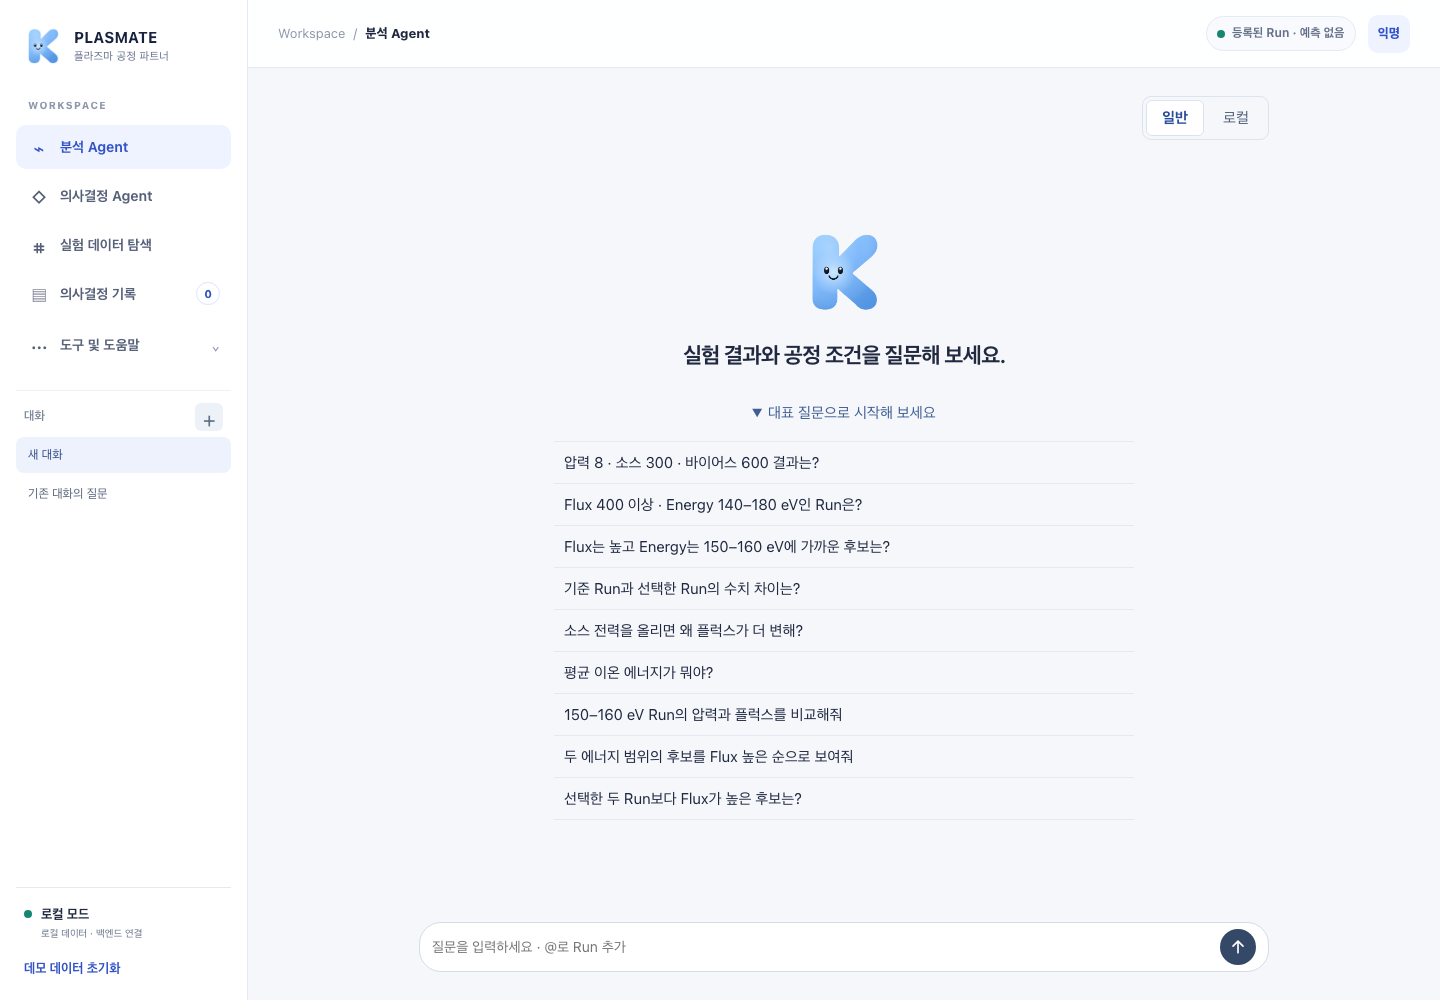
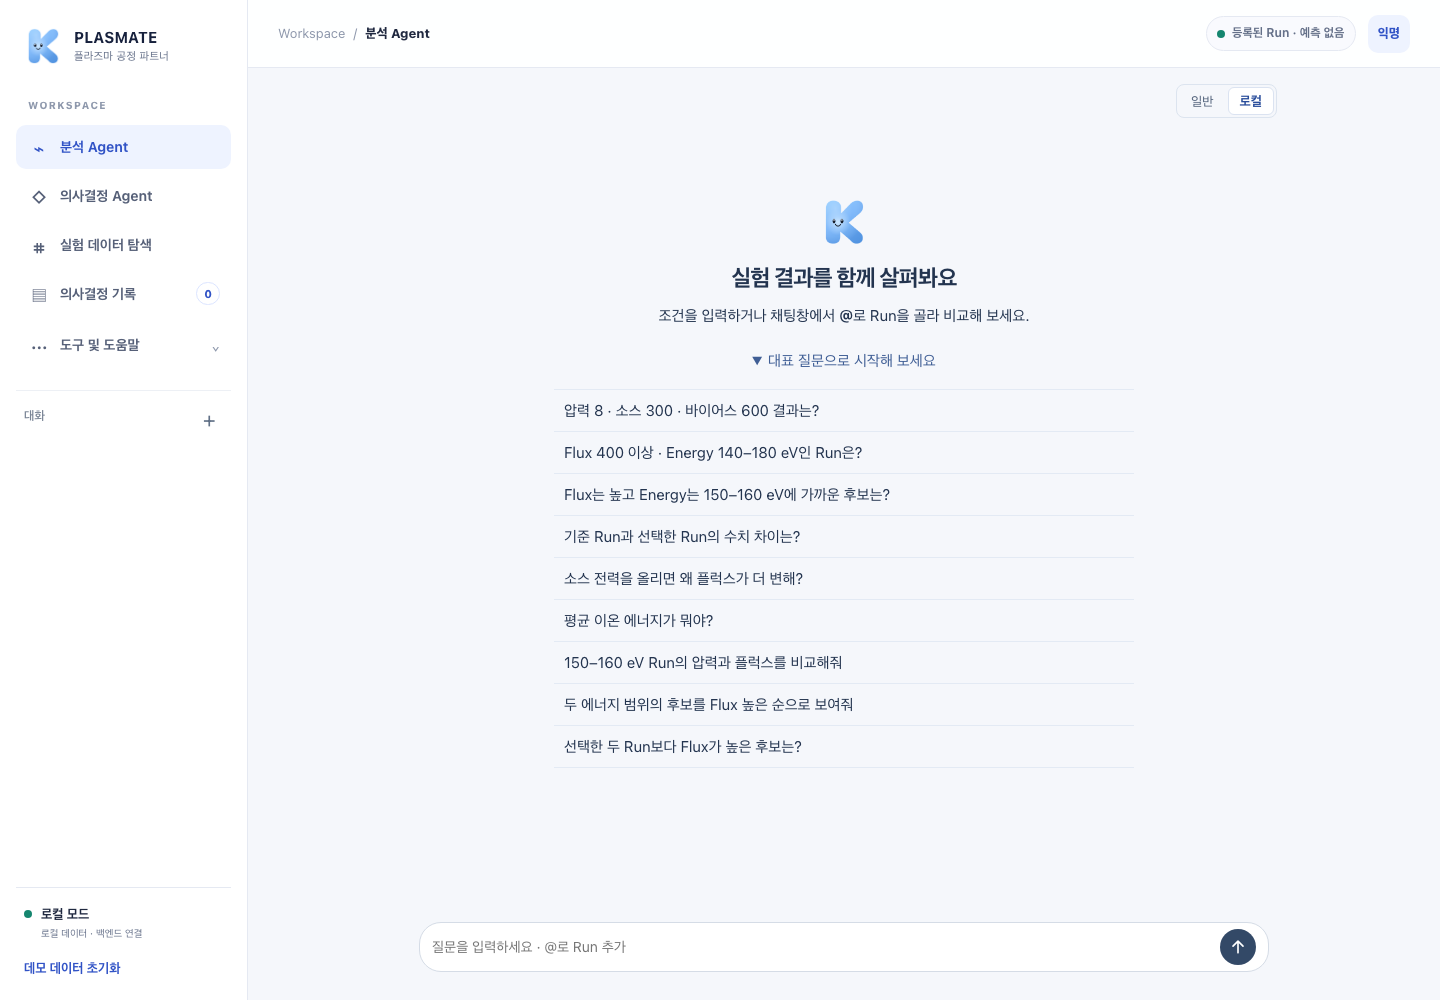
fix(frontend): 분석 Agent 탭과 시작 화면 배치 정리

diff --git a/frontend/src/features/agent/AgentPage.tsx b/frontend/src/features/agent/AgentPage.tsx
@@ -206,19 +206,20 @@ export function AgentPage({conversation,notify,onDetail,onRecord,onEvidence}:Age
  return <RunColorsProvider key={colorScope} scope={colorScope} enabled={conversation.ready}>
  <div className="agent-page agent-page--wide analysis-agent">
  <header className="agent-page-header analysis-agent-header">
+  {hasConversation&&<button className="button button--ghost button--small" type="button" data-action="new-conversation"
+   disabled={changingMode} onClick={()=>conversation.newConversation().catch(catchError)}>새 대화</button>}
   <div className="analysis-agent-modes" role="group" aria-label="분석 실행 모드">
    {graphModes.map(({version,label})=><button key={version} type="button"
     aria-pressed={conversation.graphVersion===version}
     disabled={!graphVersions.includes(version)||!conversation.ready||pending&&!archivedConversation||changingMode||!!conversation.provisionalMessage}
     onClick={()=>void changeMode(version)}>{label}</button>)}
   </div>
-  {hasConversation&&<button className="button button--ghost button--small" type="button" data-action="new-conversation"
-   disabled={changingMode} onClick={()=>conversation.newConversation().catch(catchError)}>새 대화</button>}
  </header>
  <section ref={liveRegion} className="agent-conversation agent-conversation--wide">
- <div className="agent-thread" aria-live="polite">{thread.length?thread.map(item=>item.turn?<ConversationTurn key={item.id} turn={item.turn} message={item.message} onAction={dispatchAction}/>:<div key={item.id}><AgentUserMessage question={item.message!.question} refs={item.message!.submittedRunRefs}/>{item.message!.requestId!==conversation.activeRequest?.requestId&&['FAILED','CANCELLED'].includes(item.message!.status)&&(item.message!.status==='CANCELLED'?<CompletedAgentProgress status="CANCELLED" summary={item.message!.executionSummary}/>:<p className="v1-limitation">분석을 완료하지 못했습니다.</p>)}</div>):!conversation.provisionalMessage&&!conversation.activeRequest?<section className="agent-welcome analysis-agent-welcome">
+ <div className="agent-thread" aria-live="polite">{thread.length?thread.map(item=>item.turn?<ConversationTurn key={item.id} turn={item.turn} message={item.message} onAction={dispatchAction}/>:<div key={item.id}><AgentUserMessage question={item.message!.question} refs={item.message!.submittedRunRefs}/>{item.message!.requestId!==conversation.activeRequest?.requestId&&['FAILED','CANCELLED'].includes(item.message!.status)&&(item.message!.status==='CANCELLED'?<CompletedAgentProgress status="CANCELLED" summary={item.message!.executionSummary}/>:<p className="v1-limitation">분석을 완료하지 못했습니다.</p>)}</div>):!conversation.provisionalMessage&&!conversation.activeRequest?<section className="agent-welcome">
   <BrandMark className="agent-welcome-mark"/>
-  <h1>실험 결과와 공정 조건을 질문해 보세요.</h1>
+  <h1>실험 결과를 함께 살펴봐요</h1>
+  <p>조건을 입력하거나 채팅창에서 <strong>@</strong>로 Run을 골라 비교해 보세요.</p>
   <details className="analysis-agent-examples">
    <summary>대표 질문으로 시작해 보세요</summary>
    <ul aria-label="대표 질문">

diff --git a/frontend/src/features/agent/decision-agent.pw.ts b/frontend/src/features/agent/decision-agent.pw.ts
@@ -215,3 +215,47 @@ test('Decision Agent approves criteria, compares the nominated Run and stays sep
  await page.getByRole('button',{name:'초기화',exact:true}).click();
  await expect(welcome).toBeInViewport();
 });
+
+for(const width of [390,800,1008,1440])test(`analysis and decision welcomes share the same layout at ${width}px`,async({page})=>{
+ await page.setViewportSize({width,height:1000});
+ const stamp='2026-01-01T00:00:00Z';
+ const rooms=[{conversationEpoch:1,title:'분석 대화',createdAt:stamp,updatedAt:stamp},
+  {conversationEpoch:2,title:'의사결정 대화',createdAt:stamp,updatedAt:stamp,decisionDemo:true}];
+ let epoch=1;
+ await page.route('**/api/**',async route=>{
+  const path=new URL(route.request().url()).pathname;
+  if(!path.startsWith('/api/'))return route.continue();
+  if(path==='/api/runs')return route.fulfill({json:[syntheticRun(400)]});
+  if(path==='/api/decisions')return route.fulfill({json:[]});
+  if(path.endsWith('/activate'))epoch=path.includes('/2/')?2:1;
+  else if(path!=='/api/workspace')throw new Error(`Unexpected request ${path}`);
+  return route.fulfill({json:{...emptyWorkspace,conversations:rooms,
+   stateToken:{workspaceEpoch:1,conversationEpoch:epoch,revision:0}}});
+ });
+ async function openAgent(name:string){
+  const menu=page.getByRole('button',{name:'메뉴 열기'});
+  if(await menu.isVisible())await menu.click();
+  await page.getByRole('button',{name,exact:true}).click();
+  await expect(page.locator('#current-view-label')).toHaveText(name);
+ }
+ function welcomeLayout(){
+  return page.locator('.agent-welcome:visible').evaluate(welcome=>{
+   const mark=welcome.querySelector('img')!.getBoundingClientRect();
+   const heading=welcome.querySelector('h1,h2')!;
+   const description=welcome.querySelector('p')!;
+   const headingBox=heading.getBoundingClientRect(),descriptionBox=description.getBoundingClientRect();
+   return {markX:mark.x,markY:mark.y,markWidth:mark.width,markHeight:mark.height,
+    headingSize:getComputedStyle(heading).fontSize,headingTop:headingBox.top,
+    descriptionSize:getComputedStyle(description).fontSize,descriptionTop:descriptionBox.top};
+  });
+ }
+ await page.goto('/');
+ await expect(page.getByRole('heading',{name:'실험 결과를 함께 살펴봐요'})).toBeInViewport();
+ const modes=page.getByRole('group',{name:'분석 실행 모드'});
+ await expect(modes.getByRole('button',{name:'로컬'})).toBeEnabled();
+ expect((await modes.boundingBox())?.height).toBe(34);
+ const analysis=await welcomeLayout();
+ await openAgent('의사결정 Agent');
+ await expect(page.getByRole('heading',{name:'다음 실험 조건을 함께 찾아요'})).toBeInViewport();
+ await expect.poll(welcomeLayout).toEqual(analysis);
+});

diff --git a/frontend/src/features/agent/analysis-agent.css b/frontend/src/features/agent/analysis-agent.css
@@ -1,28 +1,41 @@
+.analysis-agent {
+  position: relative;
+}
+
+.analysis-agent:not(:has(.agent-welcome)) {
+  padding-top: 36px;
+}
+
 .analysis-agent .analysis-agent-header {
-  min-height: 44px;
+  position: absolute;
+  inset-block-start: -12px;
+  inset-inline-end: -8px;
+  z-index: 1;
+  margin: 0;
   align-items: center;
   flex-direction: row;
   justify-content: flex-end;
-  gap: 10px;
+  gap: 8px;
 }
 
 .analysis-agent-modes {
   display: inline-flex;
-  gap: 3px;
-  padding: 3px;
+  gap: 2px;
+  padding: 2px;
   border: 1px solid var(--color-border, #dce4ef);
-  border-radius: 9px;
+  border-radius: 8px;
   background: #f5f7fb;
 }
 
 .analysis-agent-modes button {
-  min-height: 36px;
-  padding: 0 15px;
+  min-height: 28px;
+  padding: 0 11px;
   border: 1px solid transparent;
   border-radius: 6px;
   background: transparent;
   color: #51617a;
   font: inherit;
+  font-size: 13px;
   cursor: pointer;
 }
 
@@ -38,46 +51,16 @@
   cursor: default;
 }
 
-.analysis-agent .agent-thread:has(> .analysis-agent-welcome) {
-  flex: 1 0 auto;
-  grid-template-columns: minmax(0, 1fr);
-  align-content: center;
-}
-
-.analysis-agent .analysis-agent-welcome {
-  width: min(100%, 640px);
-  min-width: 0;
-  grid-template-columns: minmax(0, 1fr);
-  margin-inline: auto;
-  padding: 24px 8px;
-  border: 0;
-  background: none;
-  box-shadow: none;
-}
-
-.analysis-agent-welcome .agent-welcome-mark {
-  width: 84px;
-  height: 84px;
-  object-fit: contain;
-  border: 0;
-  border-radius: 0;
-  background: none;
-  box-shadow: none;
-}
-
-.analysis-agent-welcome h1 {
-  margin: 10px 0 0;
-  font-size: clamp(17px, 2.4vw, 22px);
-  font-weight: 650;
-  letter-spacing: -.025em;
-}
-
 .analysis-agent-examples {
   width: min(100%, 580px);
-  margin: 20px auto 0;
+}
+
+.analysis-agent-examples:not([open]) {
+  height: 0;
 }
 
 .analysis-agent-examples summary {
+  margin-top: 12px;
   min-height: 40px;
   width: fit-content;
   margin-inline: auto;

diff --git a/frontend/src/prototype/styles.css b/frontend/src/prototype/styles.css
@@ -1665,19 +1665,22 @@ select:focus { border-color: var(--color-primary); box-shadow: 0 0 0 3px rgba(65
   gap: 12px;
 }
 
+.agent-page--wide .agent-thread:has(> .agent-welcome) {
+  flex: 1 0 auto;
+  grid-template-columns: minmax(0, 1fr);
+  align-content: center;
+  padding-bottom: 20px;
+}
+
 .agent-welcome {
   display: grid;
+  grid-template-columns: minmax(0, 1fr);
   min-height: 270px;
   place-items: center;
   align-content: center;
   padding: 38px 26px;
-  border: 1px solid #d9e3f5;
-  border-radius: 18px;
-  background:
-    radial-gradient(circle at 50% -10%, rgba(65, 104, 232, .12), transparent 48%),
-    linear-gradient(180deg, #fff 0%, #f8faff 100%);
+  color: #23344f;
   text-align: center;
-  box-shadow: 0 12px 34px rgba(36, 63, 117, .07);
 }
 
 .agent-avatar {
@@ -1695,10 +1698,16 @@ select:focus { border-color: var(--color-primary); box-shadow: 0 0 0 3px rgba(65
   object-fit: contain;
 }
 
-.agent-welcome h2 { margin: 0 0 7px; font-size: 23px; letter-spacing: -.025em; }
-.agent-welcome p { max-width: 520px; margin: 0; color: var(--color-text-muted); line-height: 1.65; }
-.agent-welcome > div:last-child { display: flex; gap: 7px; margin-top: 18px; flex-wrap: wrap; justify-content: center; }
-.agent-welcome > div:last-child span { padding: 7px 10px; border-radius: 8px; background: #edf2ff; color: #3654a4; font-size: 11px; font-weight: 750; }
+.agent-welcome :is(h1, h2) { margin: 0 0 7px; font-size: 23px; letter-spacing: -.025em; }
+.agent-welcome p {
+  max-width: 520px;
+  margin: 0;
+  color: var(--color-text-muted);
+  font-size: 15px;
+  line-height: 1.65;
+  word-break: keep-all;
+  text-wrap: balance;
+}
 
 .agent-user-message {
   justify-self: end;

diff --git a/frontend/src/features/agent/conversation-rooms.pw.ts b/frontend/src/features/agent/conversation-rooms.pw.ts
@@ -56,7 +56,7 @@ for(const width of [390,800,1008,1440])test(`saved rooms keep answers and Run ta
  await expect(page.getByText('저장된 원래 답변입니다.',{exact:true})).toBeVisible();
  const originalSnapshot=JSON.stringify(workspace.conversation.turns);
  await showRooms();await sidebar.getByRole('button',{name:'새 채팅 만들기'}).click();
- await expect(page.getByRole('heading',{name:'실험 결과와 공정 조건을 질문해 보세요.'})).toBeVisible();
+ await expect(page.getByRole('heading',{name:'실험 결과를 함께 살펴봐요'})).toBeVisible();
  const guide=page.getByText('대표 질문으로 시작해 보세요',{exact:true});
  const examples=page.getByRole('list',{name:'대표 질문'});
  await expect(guide).toBeVisible();
@@ -66,8 +66,9 @@ for(const width of [390,800,1008,1440])test(`saved rooms keep answers and Run ta
  await expect(examples.getByRole('button')).toHaveCount(9);
  const rows=await examples.getByRole('button').evaluateAll(buttons=>buttons.map(button=>({
   whiteSpace:getComputedStyle(button).whiteSpace,top:button.getBoundingClientRect().top,
+  right:button.getBoundingClientRect().right,
  })));
- expect(rows.every(row=>row.whiteSpace==='nowrap')).toBe(true);
+ expect(rows.every(row=>row.whiteSpace==='nowrap'&&row.right<=width)).toBe(true);
  expect(new Set(rows.map(row=>row.top)).size).toBe(9);
  expect(await page.evaluate(()=>document.documentElement.scrollWidth<=innerWidth+1)).toBe(true);
  await page.screenshot({path:info.outputPath('analysis-examples.png')});

diff --git a/frontend/src/features/decision-agent/decision-agent.css b/frontend/src/features/decision-agent/decision-agent.css
@@ -13,19 +13,6 @@
   color: var(--decision-text);
 }
 .decision-agent .agent-page-header { justify-content: flex-end; align-items: flex-end; }
-.decision-agent .agent-thread:has(> .agent-welcome) {
-  flex: 1 0 auto;
-  align-content: center;
-}
-.decision-agent .agent-welcome {
-  border: 0;
-  background: none;
-  box-shadow: none;
-}
-.decision-agent .agent-welcome p {
-  word-break: keep-all;
-  text-wrap: balance;
-}
 .decision-card {
   min-width: 0;
   padding: 5px 0 0;

diff --git a/frontend/src/features/decision-agent/DecisionAgentPage.tsx b/frontend/src/features/decision-agent/DecisionAgentPage.tsx
@@ -269,7 +269,7 @@ export function DecisionAgentPage({active,conversation}:{active:boolean;conversa
           </div>
         </DecisionCard>
       </>}
-      <div ref={latest} className="decision-latest"/>
+      {question&&<div ref={latest} className="decision-latest"/>}
     </div>
 
     <div className="agent-composer-dock">
